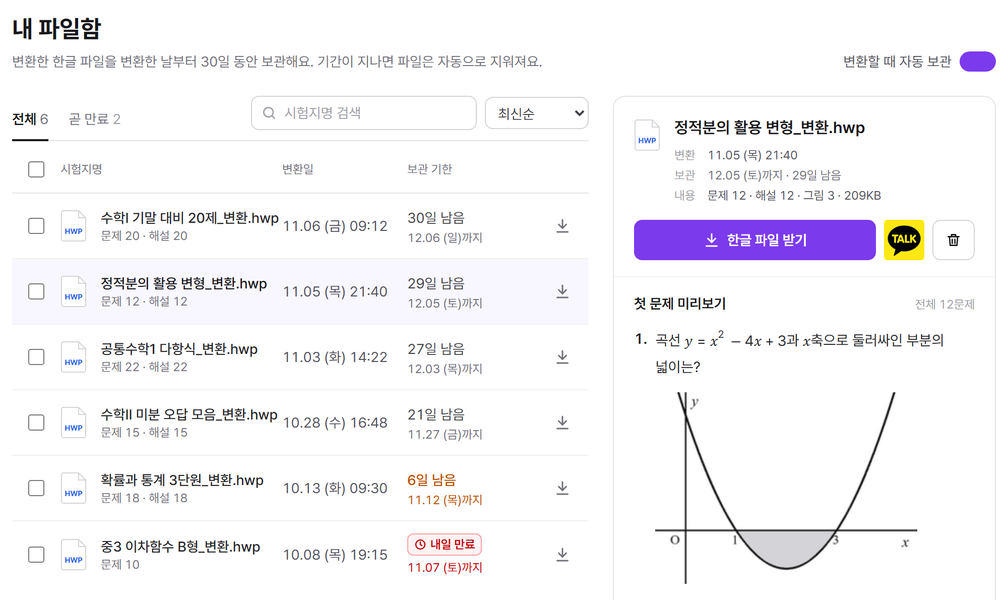
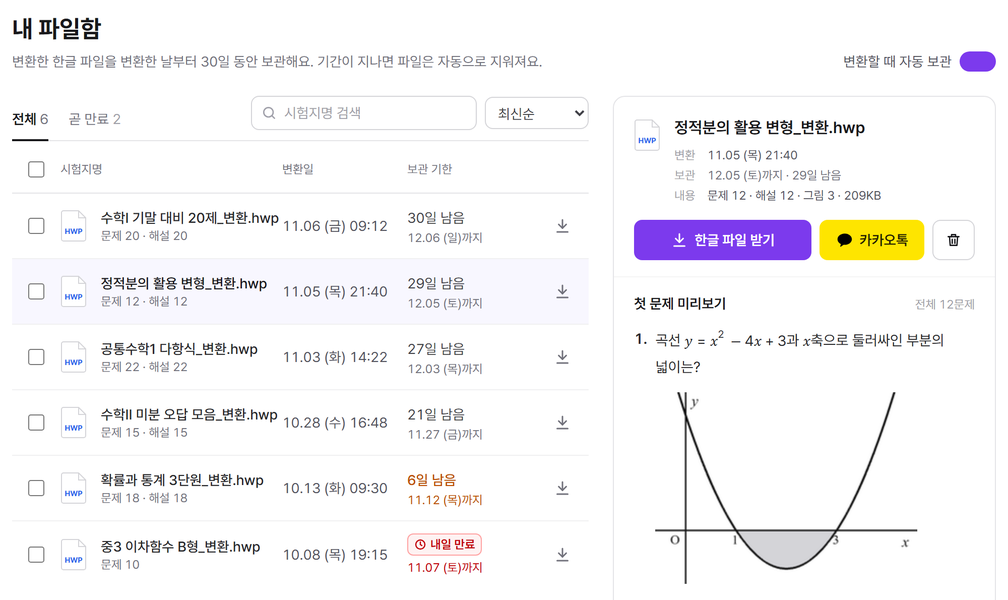
fix: 카카오톡 버튼 — 노란 바탕 + 말풍선 + 글자, 폰 미리보기는 채널톡 버튼 자리 비우고 삭제 버튼 뺌
- 카카오 로그인 버튼 가이드처럼 #FEE500 바탕·검정 말풍선·'카카오톡'(로고 그림 버튼은 너무 작았음)
- 폰·태블릿 미리보기 아래 줄: 오른쪽 아래 채널톡 상담 버튼에 가리던 삭제 버튼을 빼고(목록 체크 → 삭제는 그대로),
  채널톡 자리(폰 76px·태블릿 104px)를 비워 그 왼쪽에 받기·카카오톡
- 업데이트 팝업 그림도 새 버튼으로 다시 찍음, 안 쓰는 kakaotalk.png 삭제

Changed region(s): [[0.6458, 0.36, 0.9226, 0.45]]

diff --git a/src/components/file-box/FileBox.tsx b/src/components/file-box/FileBox.tsx
@@ -49,6 +49,12 @@ const TrashIcon = () => (
     <path d="M9 7V4h6v3" />
   </svg>
 );
+// 카카오 말풍선(카카오 로그인 버튼 가이드 모양) — 노란 바탕 위 검정
+const KakaoIcon = () => (
+  <svg width="18" height="18" viewBox="0 0 24 24" aria-hidden="true">
+    <path fill="#000" d="M12 3.5c-5.25 0-9.5 3.33-9.5 7.44 0 2.66 1.78 5 4.46 6.31l-.9 3.32c-.08.3.26.53.52.36l3.95-2.6c.48.05.97.08 1.47.08 5.25 0 9.5-3.33 9.5-7.47S17.25 3.5 12 3.5z" />
+  </svg>
+);
 const Spinner = () => (
   <svg className="animate-spin" width="18" height="18" viewBox="0 0 24 24" fill="none" stroke="currentColor" strokeWidth="2.4" strokeLinecap="round" aria-hidden="true">
     <path d="M12 3a9 9 0 1 0 9 9" />
@@ -560,10 +566,10 @@ export default function FileBox({ email }: { email: string }) {
               <button type="button" className="btn-primary flex-1 rounded-lg px-4 py-2.5 text-sm inline-flex items-center justify-center gap-1.5" onClick={() => downloadOne(f)}>
                 {downloadButtonInner(f)}
               </button>
-              {/* 카카오톡 공식 로고 그대로(사용자 요청 11-06) — 글자 없이 로고 버튼 */}
-              <button type="button" className="kakao-logo-btn shrink-0 rounded-lg" onClick={() => shareKakao(f)} aria-label="카카오톡으로 보내기" title="카카오톡으로 보내기">
-                {/* eslint-disable-next-line @next/next/no-img-element */}
-                <img src="/kakaotalk.png" alt="" width={40} height={40} className="block h-10 w-10" />
+              {/* 카카오 노랑 + 말풍선 + 글자(카카오 로그인 버튼 느낌, 사용자 요청 11-06) */}
+              <button type="button" className="kakao-btn shrink-0 rounded-lg px-4 py-2.5 text-sm inline-flex items-center justify-center gap-1.5" onClick={() => shareKakao(f)} aria-label="카카오톡으로 보내기" title="카카오톡으로 보내기">
+                <KakaoIcon />
+                카카오톡
               </button>
               <button type="button" className="btn-outline rounded-lg px-3 py-2.5 text-sm text-zinc-600" onClick={() => setPendingDelete([f.id])} aria-label="삭제" title="삭제">
                 <TrashIcon />
@@ -833,17 +839,16 @@ export default function FileBox({ email }: { email: string }) {
           </button>
         </div>
         <div className="flex-1 overflow-y-auto">{selected && renderPreview(selected, true)}</div>
+        {/* 오른쪽 아래는 채널톡 상담 버튼 자리(폰: 폭 약 45px·오른쪽 15px, 태블릿은 더 큼) — 비워 두고 그 왼쪽에 버튼을 둔다.
+            삭제는 여기서 빼고 목록의 체크 → [삭제]로만(사용자 요청 11-06) */}
         {selected && (
-          <div className="border-t border-zinc-200 px-4 py-3 flex gap-2">
-            <button type="button" className="btn-primary flex-1 rounded-lg px-4 py-3 text-sm inline-flex items-center justify-center gap-1.5" onClick={() => downloadOne(selected)}>
+          <div className="border-t border-zinc-200 pl-4 pr-[76px] md:pr-[104px] py-3 flex gap-2">
+            <button type="button" className="btn-primary flex-1 min-w-0 rounded-lg px-3 py-3 text-sm inline-flex items-center justify-center gap-1.5 whitespace-nowrap" onClick={() => downloadOne(selected)}>
               {downloadButtonInner(selected)}
             </button>
-            <button type="button" className="kakao-logo-btn shrink-0 rounded-lg" onClick={() => shareKakao(selected)} aria-label="카카오톡으로 보내기" title="카카오톡으로 보내기">
-              {/* eslint-disable-next-line @next/next/no-img-element */}
-              <img src="/kakaotalk.png" alt="" width={44} height={44} className="block h-11 w-11" />
-            </button>
-            <button type="button" className="btn-outline rounded-lg px-3.5 py-3 text-sm text-zinc-600" onClick={() => setPendingDelete([selected.id])} aria-label="삭제">
-              <TrashIcon />
+            <button type="button" className="kakao-btn shrink-0 rounded-lg px-3.5 py-3 text-sm inline-flex items-center justify-center gap-1.5" onClick={() => shareKakao(selected)} aria-label="카카오톡으로 보내기" title="카카오톡으로 보내기">
+              <KakaoIcon />
+              카카오톡
             </button>
           </div>
         )}

diff --git a/src/app/globals.css b/src/app/globals.css
@@ -126,17 +126,21 @@ html {
 .fb-check:disabled {
   cursor: default;
 }
-/* 카카오톡 보내기 — 카카오톡 공식 로고 이미지가 버튼 자체(모서리는 이미지가 둥글다) */
-.kakao-logo-btn {
-  transition: opacity 0.15s ease, transform 0.15s cubic-bezier(0.4, 0, 0.2, 1);
+/* 카카오톡 보내기 — 카카오 공식 노랑(로그인 버튼 가이드: 바탕 #FEE500, 글자 검정 85%). 이 버튼에만 쓴다 */
+.kakao-btn {
+  background: #fee500;
+  color: rgba(0, 0, 0, 0.85);
+  font-weight: 600;
+  white-space: nowrap;
+  transition: background 0.15s ease, transform 0.15s cubic-bezier(0.4, 0, 0.2, 1);
 }
-.kakao-logo-btn:hover {
-  opacity: 0.88;
+.kakao-btn:hover {
+  background: #f5dc00;
 }
-.kakao-logo-btn:active {
-  transform: scale(0.96);
+.kakao-btn:active {
+  transform: scale(0.97);
 }
-.kakao-logo-btn:focus-visible,
+.kakao-btn:focus-visible,
 .btn-outline:focus-visible {
   outline: 2px solid var(--accent);
   outline-offset: 2px;
